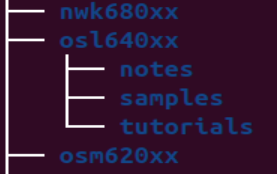
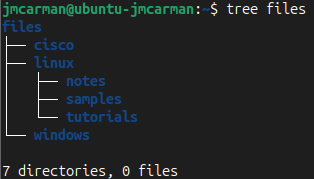
Lab 2: Finished file management. Still need to modify text editors.

diff --git a/lab2.md b/lab2.md
@@ -151,8 +151,7 @@ You will be creating the following **directory structure** within your home dire
 
 **Perform the Following Steps:**
 
-**NOTE:** For several of the following commands, you will be using **your username** to replace the text:"**yourusername**" in a pathname.
-
+> **NOTE:** For several of the following commands, you will be using **your username** to replace the text: **yourusername** in a pathname.
 For example, if your username was **mkhan** then you would display the pathname _/home/yourusername_ as: **/home/mkhan**
 
 1. Confirm that you are logged into your Ubuntu virtual machine and have the **Terminal** open.
@@ -162,7 +161,7 @@ For example, if your username was **mkhan** then you would display the pathname 
 mkdir /home/yourusername/files
 ```
 
-- (remember: use your Seneca username instead of "your-seneca-id")
+- (remember: use your username instead of "yourusername")
 - **NOTE:** You should always confirm that you have created a directory. This can be done by issuing the `ls` command.
 
 4. Issue the following Linux command:
@@ -210,10 +209,10 @@ mkdir /home/yourusername/files/linux /home/yourusername/files/windows /home/your
 9. Issue the following Linux command to confirm that those directories have been created:
 
 ```bash
-ls -ld /home/yourusername/files/windows /home/yourusername/files/cisco
+ls -ld /home/yourusername/files/linux /home/yourusername/files/windows /home/yourusername/files/cisco
 ```
 
-- **Using a FULL pathname starting from the root directory (i.e. /) requires is a LOT of typing!. Since we are already located in our home directory, we don't have to start from the root directory. This is called a "relative" pathname.**
+> **Using a FULL pathname starting from the root directory (i.e. /) requires is a LOT of typing!. Since we are already located in our home directory, we don't have to start from the root directory. This is called a "relative" pathname.**
 
 10. We will now create the subdirectories that are contained in the **linux** directory. Issue the following Linux command to move to the **linux** directory using a **relative** pathname:
 
@@ -303,7 +302,7 @@ sudo apt -y install tree
 2. Issue the following Linux command:
 
 ```bash
-tree
+tree files
 ```
 
 - **NOTE:** You should see the directory structure that you created in the previous investigation. You can also issue the **tree** command using a directory pathname to display the directory structure for a specific scope. Some of the output from the tree command has been omitted in the following screenshot.
@@ -328,7 +327,7 @@ ls -lR
 5. Issue the following Linux command:
 
 ```bash
-ls -lR linux
+ls -lR files/linux
 ```
 
 - Note the differences between both of these commands (i.e. using and not using a pathname).
@@ -337,27 +336,25 @@ ls -lR linux
 6. Issue the following Linux command:
 
 ```bash
-cp -R linux cisco
+cp -R files/linux files/cisco
 ```
 
 5. Issue the following Linux command to display the directory structure of your home directory to confirm you copied the linux directory:
 
 ```bash
-tree
+tree files
 ```
-
-- Output of the **tree** command to confirm copy of **linux** directory (and contents) to the **xyz100xx** directory.
 
 6. Issue the following Linux command:
 
 ```bash
-mv windows cisco/linux/tutorials/windows
+mv files/windows files/cisco/linux/tutorials/windows
 ```
 
 7. Issue the following Linux command to display the directory structure of your home directory to confirm you moved the windows directory:
 
 ```bash
-tree
+tree files
 ```
 
 - Let's run a checking script to see if you moved and copied the directories correctly.
@@ -384,14 +381,14 @@ In this investigation, we will learn how to **safely remove** directories and th
 2. Issue the following Linux command to remove the empty directory called **tutorials**:
 
 ```bash
-rmdir linux/tutorials
+rmdir files/linux/tutorials
 ```
 
 3. Issue a command to confirm that you removed the **tutorials** directory.
 4. Issue the following Linux command to remove the empty directory called **linux**:
 
 ```bash
-rmdir linux
+rmdir files/linux
 ```
 
 - NOTE: You should get an **error message**, since the **linux** directory is **NOT** empty.
@@ -401,7 +398,7 @@ rmdir linux
 5. Issue the following Linux command to remove the **linux** directory and its contents:
 
 ```bash
-rm -r linux
+rm -r files/linux
 ```
 
 6. Issue the **tree** command to confirm that the linux directory (contained in your home directory) and its contents have been removed.
@@ -411,13 +408,13 @@ rm -r linux
 7. Issue the following Linux command (entering "y" when prompted):
 
 ```bash
-rm -ri cisco
+rm -ri files
 ```
 
 - **NOTE:** You should have removed all directories that you have created.
 - Let's run a checking script to confirm that you have correctly removed all of those directories.
 
-8. Issue the **tree** command to confirm that all of those recently created directories have been removed.
+8. Issue the **ls** command to confirm that all of those recently created directories have been removed.
 9. Issue the following Linux command to run a checking script to confirm removal of those directories:
 
 ```bash
